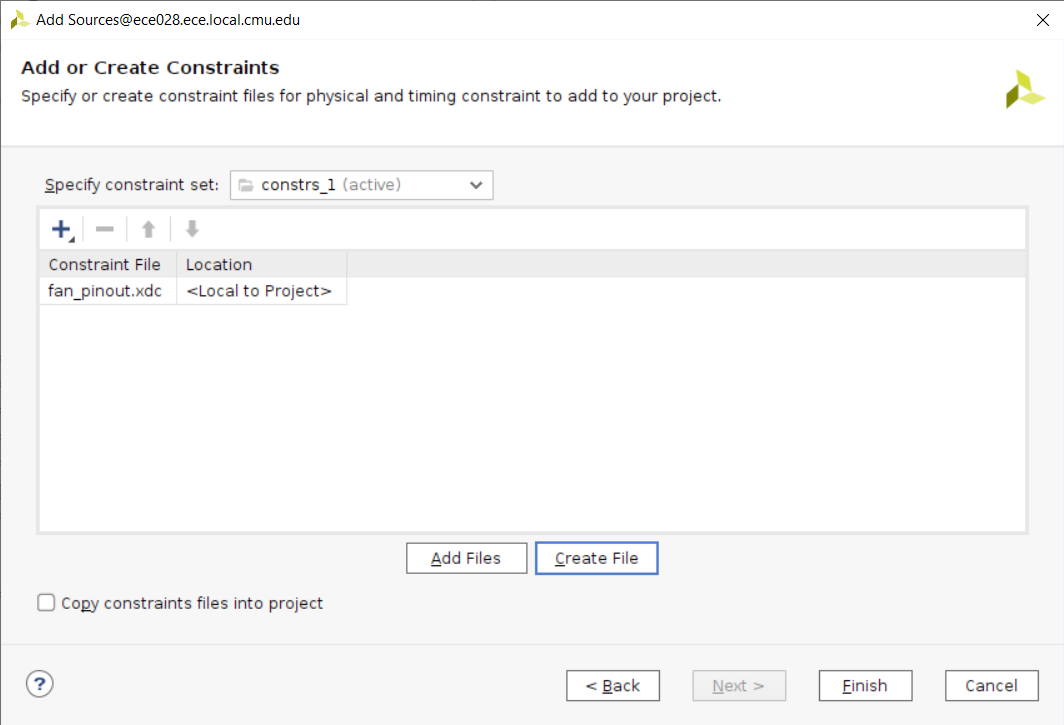
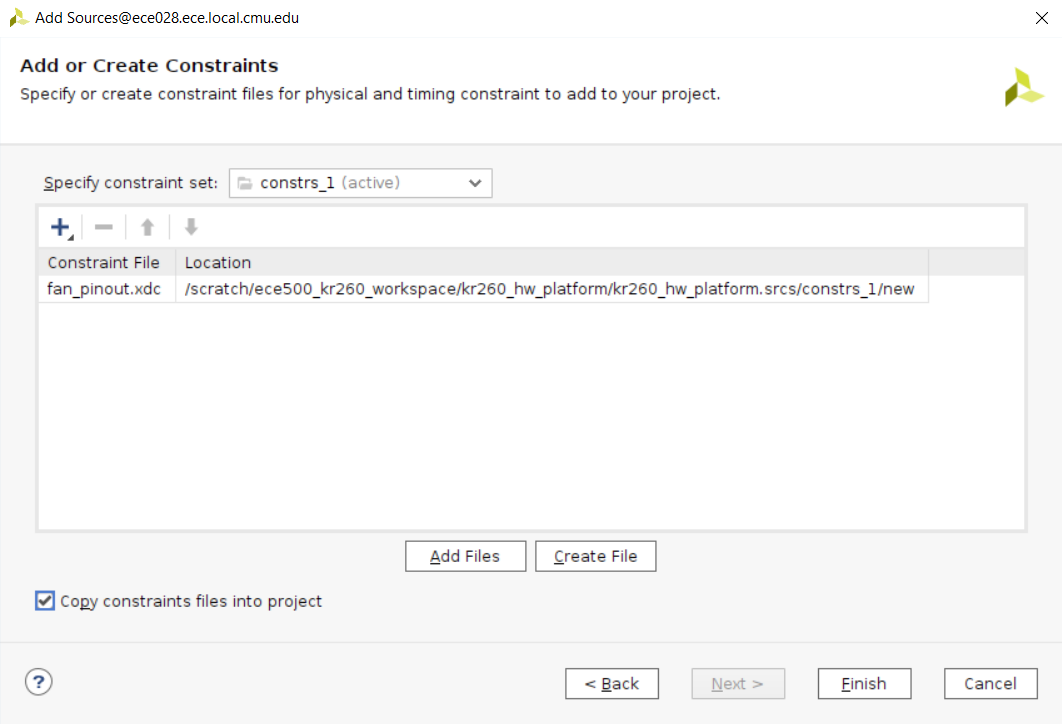
Added wrap up section

diff --git a/kr260_regular_platform_setup.md b/kr260_regular_platform_setup.md
@@ -1,6 +1,6 @@
 # KR260 Platform Setup
 
-This guide serves as a starting point for setting up the hardware platform for the KRIA KR260 Robotics Starter Kit
+This guide serves as a starting point for setting up the hardware platform for the Kria KR260 Robotics Starter Kit
 
 ---
 
@@ -215,7 +215,7 @@ Skim through the generated `*.v` and `.vhd` files in the `Design Sources` list. 
 
 Finally, we need to setup the constraint for the fan. We've created a port in our block design for the fan PWM, but now we need to map that to a physical IO pin on the FPGA.
 
-In the `Flow Navigator`, click `Add sources` and `Add or create constraints`. Click `Create Constraint` and add a file called `fan_pinout.xdc`. 
+In the `Flow Navigator`, click `Add sources` and `Add or create constraints`. Click `Create Constraint` and add a file called `fan_pinout.xdc`. Make sure to check `Copy constraint files into project`.
 
 ![BD Step 20](images/bd_step20.png)
 
@@ -253,3 +253,29 @@ Now, can generate a bitstream. Click on `Generate Bitstream` in the `Flow Naviga
 This will take a while! You can monitor the progress by clicking on the `Design Runs` tab in the bottom ribbon. View the implementation when it's done. Disregard the `Critical Warning` regarding the clock source pin.
 
 Finally, in the `Flow Navigator` click on `Export Platform`. Select `Hardware and Hardware Emulation` in the `Platform Type`. Make sure to check the `Include Bitstream` option in the `Platform State` window. Give the platform whatever name you'd like in the two tabs, just make note of where the `.xsa` file ends up.
+
+## Wrap Up
+
+Let's save our project onto our AFS as the `/scratch` directory gets cleared after 28 days. 
+
+In the `File` item in the top ribbon, navigate to `Project -> Write TCL`. 
+
+![Wrap Up](images/wrap_up.png)
+
+Check the relevant options, I would do:
+- Write all properties
+- Copy sources to new project
+- Recreate block design using TCL
+- Write object values
+
+Then save the `.tcl` file to somwhere in your `private` directory. 
+
+In the future, if you'd like to open up this project, run
+
+```console
+user@eceXXX:/scratch$ vivado -source <tcl file> &
+```
+A reference of this platform can be found at 
+```console
+/afs/ece.cmu.edu/class/ece500/fpga/kr260_hw_platform.tcl
+```
